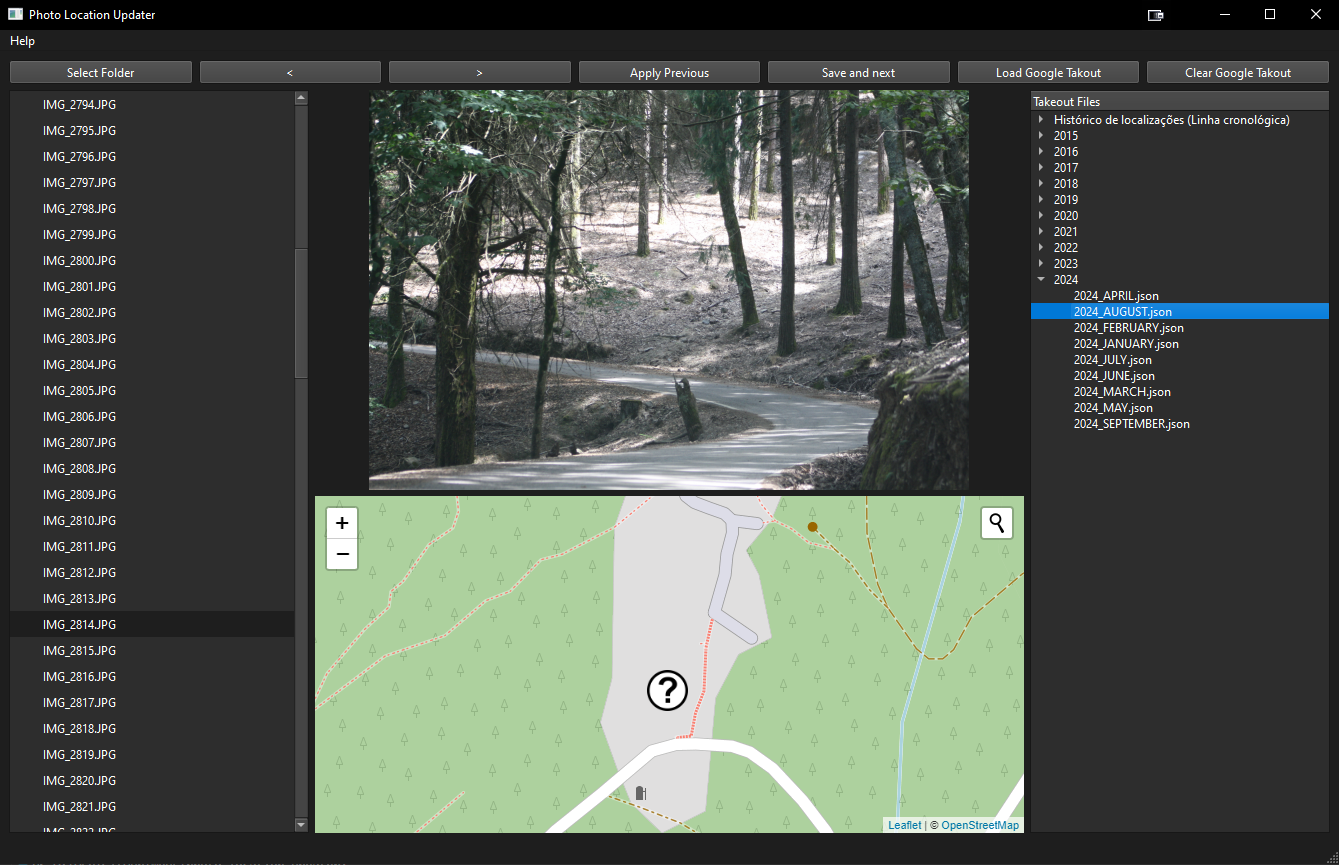
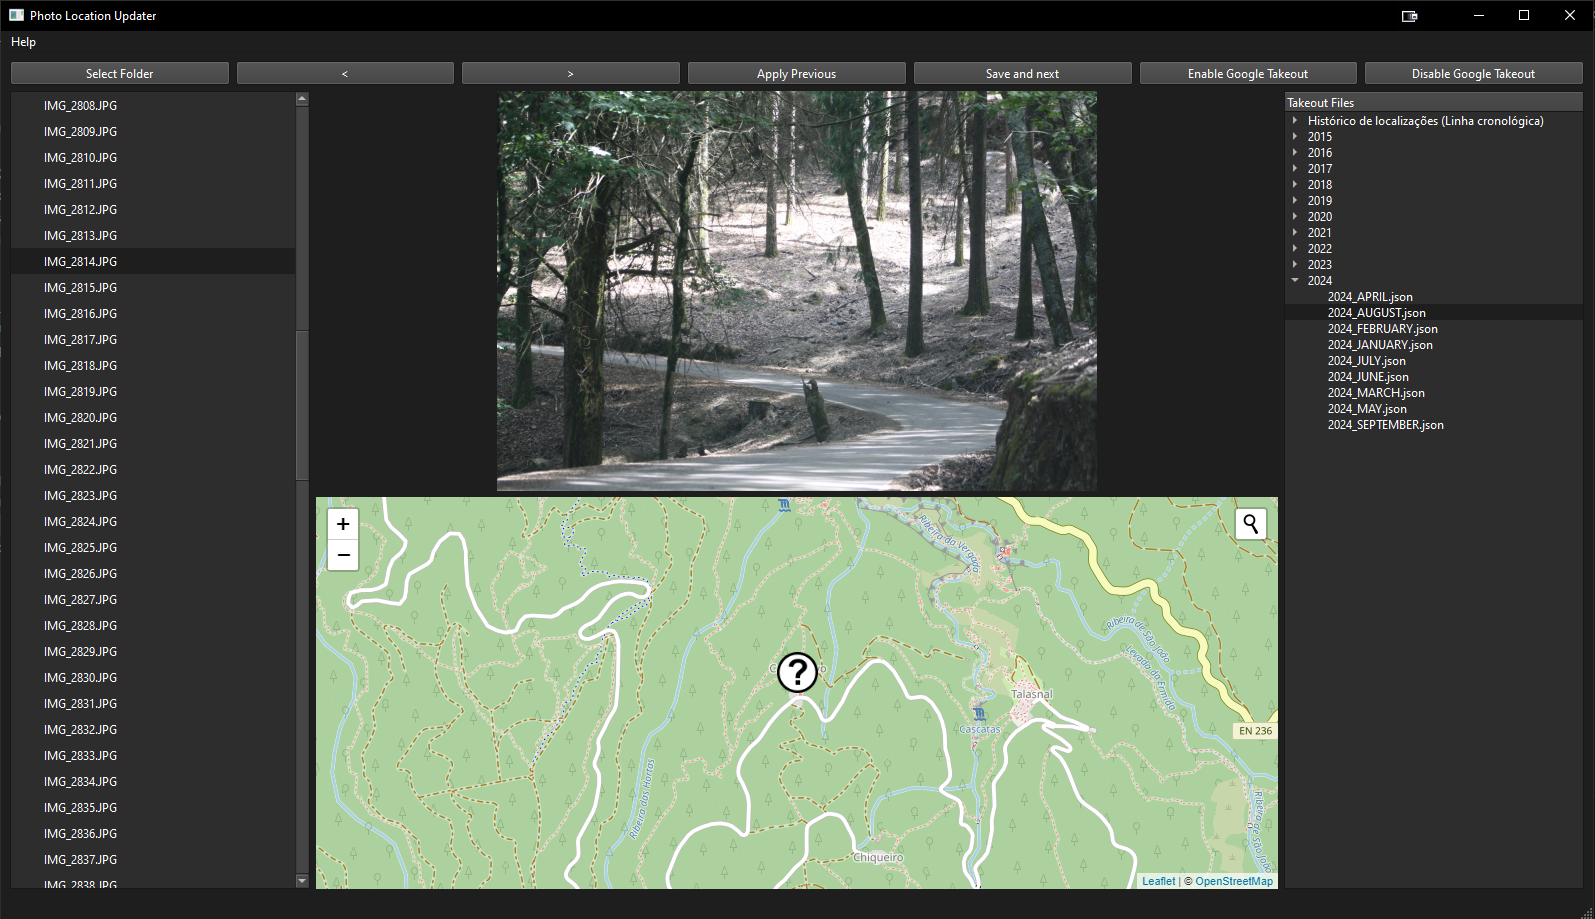
README.md updates and ssome label changes

diff --git a/design.py b/design.py
@@ -146,8 +146,8 @@ class Ui_MainWindow(object):
         self.folderSelectButton.setText(_translate("MainWindow", "Select Folder"))
         self.previousButton.setText(_translate("MainWindow", "<"))
         self.SaveButton.setText(_translate("MainWindow", "Save and next"))
-        self.googleTakeOutButton.setText(_translate("MainWindow", u"Load Google Takout", None))
-        self.clearGoogleTakeOutButton.setText(_translate("MainWindow", u"Clear Google Takout", None))
+        self.googleTakeOutButton.setText(_translate("MainWindow", u"Enable Google Takeout", None))
+        self.clearGoogleTakeOutButton.setText(_translate("MainWindow", u"Disable Google Takeout", None))
         
         self.menuHelp.setTitle(QtCore.QCoreApplication.translate("MainWindow", u"Help", None))
         self.actionAbout.setText(QtCore.QCoreApplication.translate("MainWindow", u"About", None))

diff --git a/README.md b/README.md
@@ -24,9 +24,9 @@ A simple tool to seamlessly update the geolocation metadata of your photos using
 
 There are two ways to run the app.
 
-1. By download the executable and run it directly on your system. **Important:** that the windows could say the app is unverified.
+1. By downloading the executable and running it directly on your system. **Important:** Windows could say the app is unverified.
 
-2. By downloading this repository and run it from the source code.
+2. By downloading this repository and running it from the source code.
 
 
 
@@ -34,7 +34,7 @@ There are two ways to run the app.
 
 1. Download the executable file from the [Releases](https://github.com/Rick45/photo-location-updater/releases) tab.
 
-2. Extracto to your desired folder **Important:** you need to extract all the content(both EXE and folder).
+2. Extract to your desired folder **Important:** you need to extract all the content (both EXE and folder).
 
 3. Run the "Photo Location Updater.exe" file
 
@@ -70,13 +70,13 @@ There are two ways to run the app.
 
 1. Use the GUI to select a folder containing photos.
 
-2. Select a photo from the list to view its current geolocation.
+2. Select a photo from the list to view it and its current geolocation.
 
 3. Click on the map to update the geolocation of the selected photo.
 
 4. Save the updated geolocation metadata to the photo.
 
-Optionally you can load the google takeout files using the Load Google Takeout button. When a file from the list is selected the app will use it to find the location with the date closest the photo taken date. Google share the location history by month, so you will need to know the month where the photo was taken.
+Optionally you can load the google takeout files using the Enable Google Takeout button. When a file from the list is selected, the app will use it to find the location with the date closest to the photo taken date. Google shares the location history by month, so you will need to know the month when the photo was taken.
 
 
 
@@ -92,13 +92,13 @@ Optionally you can load the google takeout files using the Load Google Takeout b
 6. Choose File Type, Frequency & Destination:
 
 7. Click on "Next step".
-8. Choose the delivery method,export frequency, file type and size.
+8. Choose the delivery method, export frequency, file type and size.
 9. Click on "Create export".
 
 Google will prepare your data, which may take some time depending on the amount of data.
 Once the export is ready, you will receive an email with a download link.
 Download the .zip file and extract it to a folder on your computer.
-This folder can be selected and all the files will be listed in the aplication to be selected.
+This folder can be selected and all the files will be listed in the application to be used.
 
 
 ## Acknowledgements
